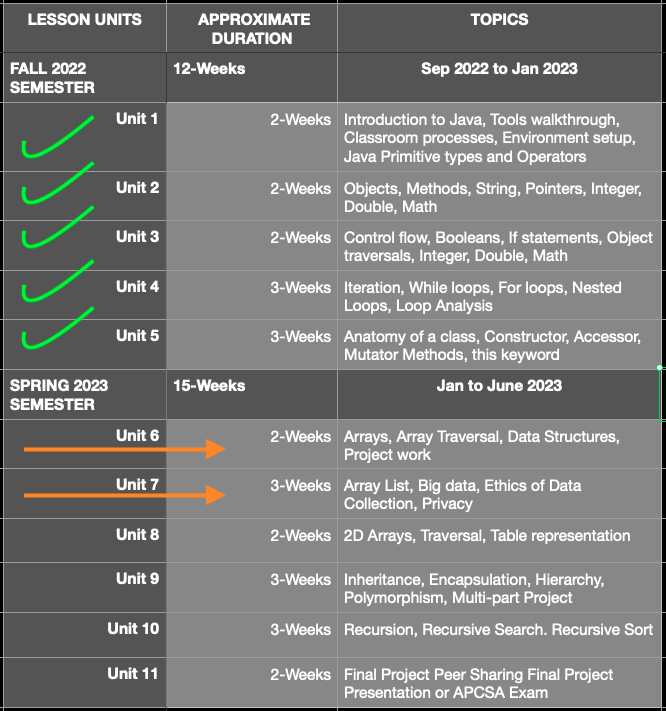
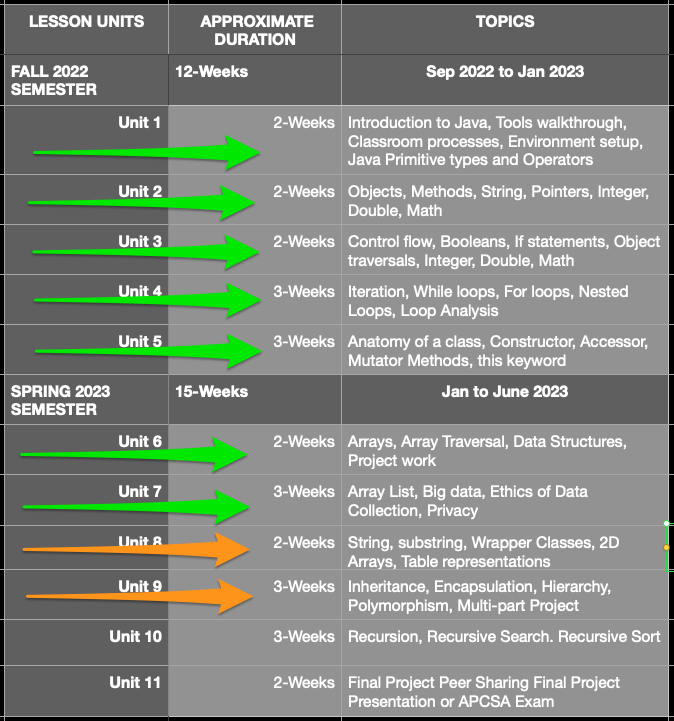
updtes

diff --git a/readme.md b/readme.md
@@ -6,7 +6,7 @@
 | :--- | :--- | :--- |
 | 02-11-2023 | Declare and Define Primitives, Objects, Array and ArrayList with examples | [click to go there](#hints-faq) |
 | 02-10-2023 | FRQ Notes for AP Exam takers | [click to go there](#frq-notes) |
-| 02-8-2023 | Jan 3rd, 2023 Note | [click to go there](#jan-3rd-2023-note) |
+
 
 ## Bouncing Bubbles Java Program
 ![alt text](bouncy_balls.gif)
@@ -48,13 +48,12 @@ In our CPJava classroom we are already using tools and techniques that are natur
     
 ### [Downloadable CPJava Course Schedule 2022-2023](src/schedule.png) 
 
-Schedule updated 2/26/23
+Schedule updated 3/21/23
 
 ![alt text][schedule]
 
 ## Jan 3rd 2023 Note
-![alt text][jan3note]
-<span style="color:red">Chemotaxis project (Arrays of Objects) and Rising Bubbles Part 2 project (Array List) are now due in Feb 2023</span> See Portal!
+[Jan 3 Note][jan3note]
 
 ## Learning Modes
 ### Learning by Doing First - Student-Based Asynchronous Workflow
@@ -112,7 +111,7 @@ In the world of programming - [collaboration with others is everything](https://
 * DONE [Unit 7a Array List](https://docs.google.com/presentation/d/1cnaJQR97NmguD3ZGeLL-Rum8TVj_qA0wHxEyVr37K9s/edit?usp=sharing) 
 * DONE [Unit 7b For Each Loop](https://docs.google.com/presentation/d/1NTMFNzH-FB3Pfsnozkuu4lYZre3WNNLI6eAyzpNOJg8/edit#slide=id.p1)
 * IN-WORK [Unit 9a Inheritance & Encapsulation](https://docs.google.com/presentation/d/1U6Q4y2aVB-DTWi-jB2GYJP2BUIu_k2O3yY6iDY9w-Mw/edit)
-* [Unit 2a String Objects & Methods and Google Billboard Project](https://drive.google.com/open?id=1H9tzGeTWetjzUz1G450NGxbEO5xZl3BvacfkFWsvWRE&authuser=0)
+* IN-WORK [Unit 2a String Objects & Methods and Google Billboard Project](https://drive.google.com/open?id=1H9tzGeTWetjzUz1G450NGxbEO5xZl3BvacfkFWsvWRE&authuser=0)
 * [Unit 2b String Methods & Pointers and Piglatin Project](https://drive.google.com/open?id=1XLlg2WK9z2RQoCVq5l0EaKquK1Mhw4WYbfshck_Rujw&authuser=0)
 * [Unit 8 2D Arrays Tables](https://docs.google.com/presentation/d/1cIgGz7huTaKrsFC5OKXdKNQ9ftwHSnWO6fjzegs7H0w/edit?usp=sharing)
 * [Unit 10a Recursion and Sierpinski Triangles](https://docs.google.com/presentation/d/1Ef1iENxFbYeJy7XDUlbV9JTiVYeoUkeXxrpcdx6UiwE/edit?usp=sharing)
@@ -124,9 +123,9 @@ In the world of programming - [collaboration with others is everything](https://
 ## Project Specific Student Paced Sessions
 * DONE [Unit 0 Processing Primer Scales Project](https://docs.google.com/presentation/d/1oGEPH8JPehlrZLI9IREmoKrNd192qZ_DuNtancZooY4/edit?usp=sharing)
 * DONE [Unit 1 Using MathDotRandom in the Lightning Project](https://docs.google.com/presentation/d/1ga570E_dgM4iSPyWmaa2AmE9roI63Eoe8VdkLu8fdQ4/edit#slide=id.g40fbbe7893_0_24)
-* [Unit 9b Asteroids Project Part 1](https://docs.google.com/presentation/d/1HfHQTei9qgkBEBhNqUKqmAc6g2V3x8FDprajTp5IZuE/edit?usp=sharing)
-* [Unit 9c Asteroids Project Part 2](https://docs.google.com/presentation/d/1pPeUvTAbIjtZYvfQIv54BDuunra8H6imO654amT6NI4/edit?usp=sharing)
-* [Unit 9d Asteroids Project Final Part 3](https://docs.google.com/presentation/d/1eSpNZiI6WjTBA4Jn_s_0pSicocsRXhOUnGaTOms80CM/edit?usp=sharing)
+* IN-WORK [Unit 9b Asteroids Project Part 1](https://docs.google.com/presentation/d/1HfHQTei9qgkBEBhNqUKqmAc6g2V3x8FDprajTp5IZuE/edit?usp=sharing)
+* IN-WORK [Unit 9c Asteroids Project Part 2](https://docs.google.com/presentation/d/1pPeUvTAbIjtZYvfQIv54BDuunra8H6imO654amT6NI4/edit?usp=sharing)
+* IN-WORK [Unit 9d Asteroids Project Final Part 3](https://docs.google.com/presentation/d/1eSpNZiI6WjTBA4Jn_s_0pSicocsRXhOUnGaTOms80CM/edit?usp=sharing)
 * [Vectors](https://docs.google.com/presentation/d/1H_v-gJwiZyaRqGt4j-gnPoGeW3QGNZEhcqAEEO4Nzf0/edit?usp=sharing)
 
 ## Student Projects
@@ -143,11 +142,11 @@ In the world of programming - [collaboration with others is everything](https://
 * DONE [Chemotaxis Project](https://github.com/chandrunarayan/Chemotaxis)
 * DONE  [Rising Bubbles Project](https://classroom.google.com/c/MzkyMDU1MDY0Njc4/a/NDM0NTIzNzc4MjQ1/details)
 * DONE [Snowflake Live Coding Project](https://chandrunarayan.github.io/Snowflake/)
-* IN-WORK [Starfield Project](https://github.com/chandrunarayan/Starfield)
-* [Asteroids Part 1 Project](https://github.com/chandrunarayan/AsteroidsGame)
-* [Asteroids Part 2 Project](https://github.com/chandrunarayan/AsteroidsPart2)
-* [Asteroids Part 3 Project](https://github.com/chandrunarayan/AsteroidsPart3)
-* [Google Billboard Project](https://github.com/chandrunarayan/GoogleBillboard)
+* DONE [Starfield Project](https://github.com/chandrunarayan/Starfield)
+* IN-WORK [Asteroids Part 1 Project](https://github.com/chandrunarayan/AsteroidsGame)
+* IN-WORK [Asteroids Part 2 Project](https://github.com/chandrunarayan/AsteroidsPart2)
+* IN-WORK [Asteroids Part 3 Project](https://github.com/chandrunarayan/AsteroidsPart3)
+* IN-WORK [Google Billboard Project](https://github.com/chandrunarayan/GoogleBillboard)
 * [Piglatin Project](https://github.com/chandrunarayan/Piglatin)
 * [Palindrome Checker Project](https://github.com/chandrunarayan/PalindromeChecker)
 * [Linear Binary Search Functions Project](https://github.com/chandrunarayan/LinearBinarySearch)
